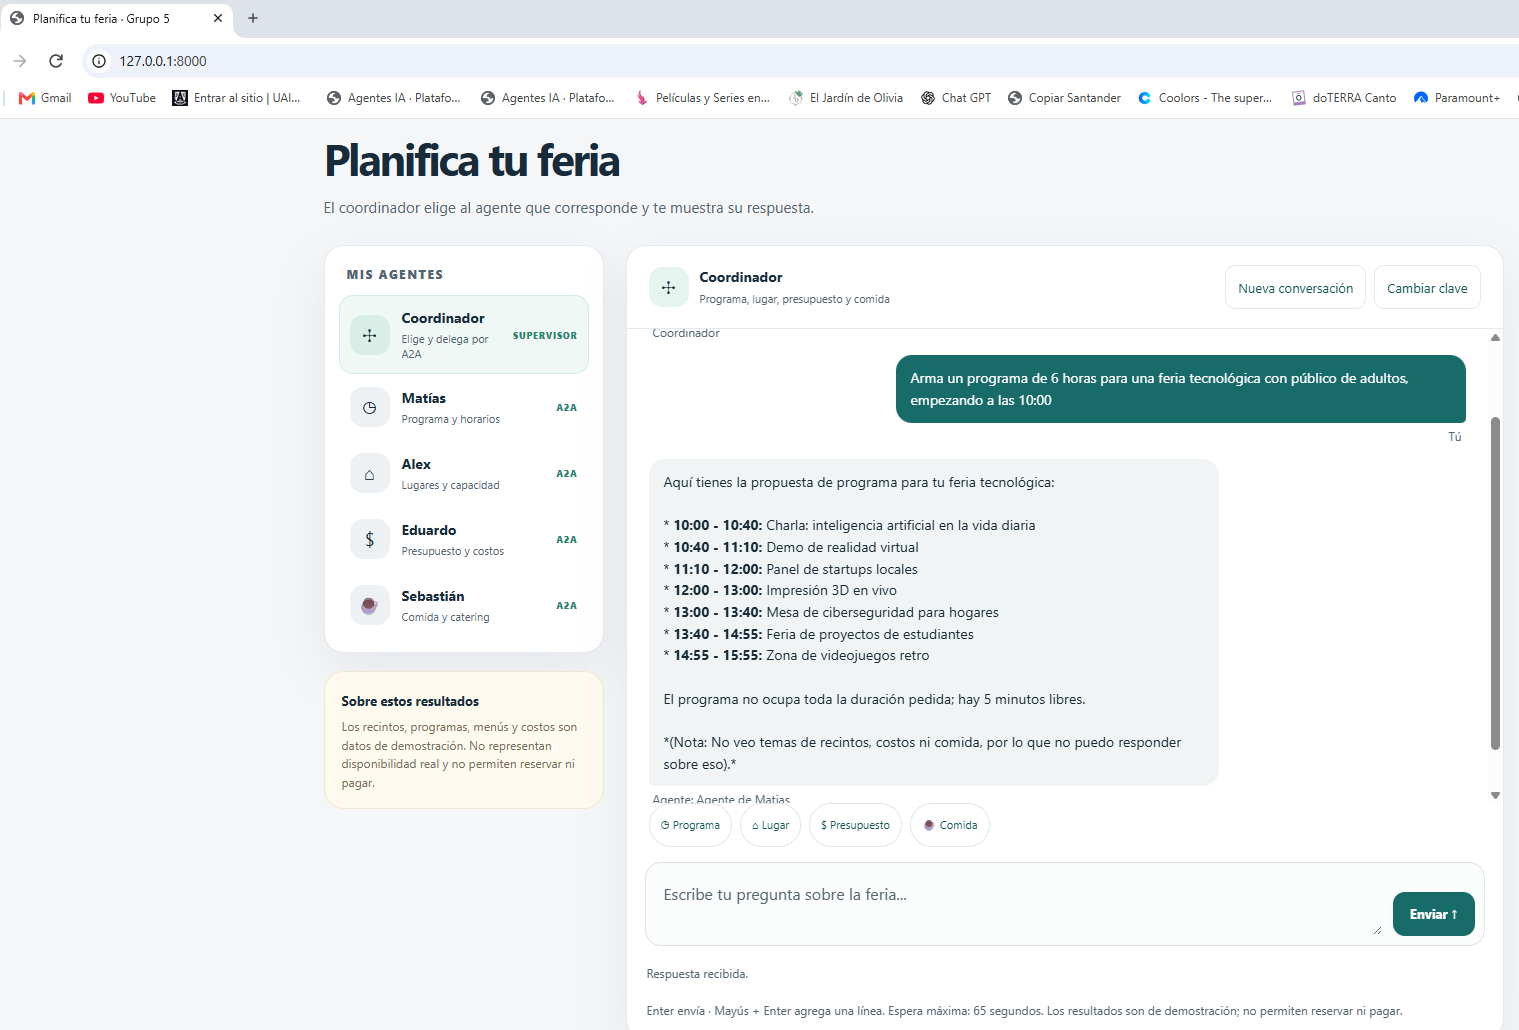
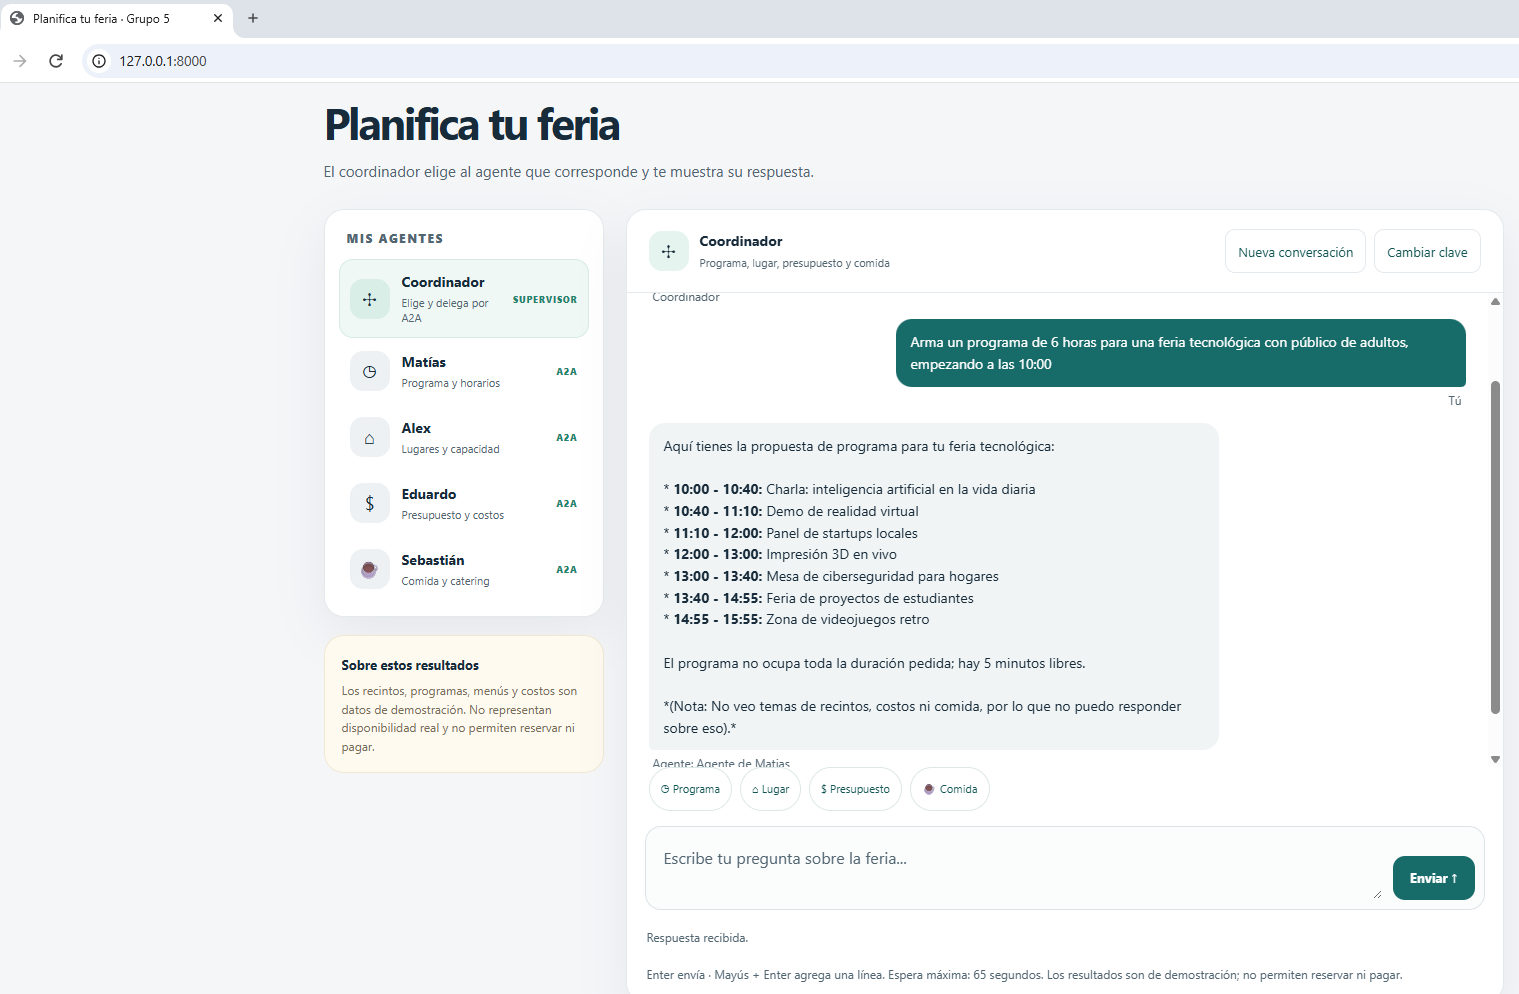
Capturas sin barra de marcadores y pruebas de la herramienta armar_programa

diff --git a/taller-02-c2/proyecto/tests/test_tools_matias.py b/taller-02-c2/proyecto/tests/test_tools_matias.py
@@ -1,0 +1,109 @@
+"""Pruebas de la herramienta armar_programa (no usan el modelo ni la clave)."""
+
+from datetime import datetime
+
+import pytest
+
+from src.agente_matias.tools import _ACTIVIDADES, armar_programa
+
+TIPOS = list(_ACTIVIDADES)
+PUBLICOS = ["familiar", "adulto", "estudiantes"]
+DURACIONES = [30, 60, 90, 180, 360, 480]
+
+
+def _armar(**datos):
+    """Llama a la herramienta como lo hace el modelo."""
+    return armar_programa.invoke(datos)
+
+
+def _minutos(hora):
+    inicio = datetime.strptime(hora, "%H:%M")
+    return inicio.hour * 60 + inicio.minute
+
+
+@pytest.mark.parametrize("duracion", DURACIONES)
+@pytest.mark.parametrize("publico", PUBLICOS)
+@pytest.mark.parametrize("tipo", TIPOS)
+def test_el_programa_nunca_pasa_de_la_duracion_pedida(tipo, publico, duracion):
+    resultado = _armar(tipo_evento=tipo, duracion_minutos=duracion, publico=publico)
+
+    suma = sum(actividad["duracion_minutos"] for actividad in resultado["actividades"])
+    assert suma == resultado["minutos_usados"]
+    assert resultado["minutos_usados"] <= duracion
+    assert resultado["minutos_libres"] == duracion - resultado["minutos_usados"]
+    assert resultado["minutos_libres"] >= 0
+
+
+@pytest.mark.parametrize("tipo", TIPOS)
+def test_las_actividades_son_consecutivas_y_las_horas_cuadran(tipo):
+    resultado = _armar(
+        tipo_evento=tipo, duracion_minutos=360, publico="familiar", hora_inicio="10:00"
+    )
+    actividades = resultado["actividades"]
+
+    assert actividades, "debe haber al menos una actividad para un evento de 6 horas"
+    assert actividades[0]["hora_inicio"] == "10:00"
+    for anterior, siguiente in zip(actividades, actividades[1:]):
+        assert siguiente["hora_inicio"] == anterior["hora_fin"]
+    for orden, actividad in enumerate(actividades, start=1):
+        assert actividad["orden"] == orden
+        duracion = _minutos(actividad["hora_fin"]) - _minutos(actividad["hora_inicio"])
+        assert duracion == actividad["duracion_minutos"]
+    assert _minutos(actividades[-1]["hora_fin"]) == 10 * 60 + resultado["minutos_usados"]
+
+
+def test_solo_incluye_actividades_del_publico_pedido():
+    resultado = _armar(tipo_evento="tecnologico", duracion_minutos=480, publico="adulto")
+    permitidas = {
+        actividad["nombre"]
+        for actividad in _ACTIVIDADES["tecnologico"]
+        if "adulto" in actividad["publico"]
+    }
+    nombres = {actividad["nombre"] for actividad in resultado["actividades"]}
+    assert nombres and nombres <= permitidas
+
+
+def test_un_evento_de_seis_horas_deja_pocos_minutos_libres():
+    """Con el catálogo ampliado, un evento largo no queda con horas vacías."""
+    for tipo in TIPOS:
+        resultado = _armar(tipo_evento=tipo, duracion_minutos=360, publico="familiar")
+        assert resultado["minutos_libres"] < 120, tipo
+
+
+def test_los_alias_de_publico_dan_el_mismo_programa():
+    base = _armar(tipo_evento="infantil", duracion_minutos=180, publico="familiar")
+    for alias in ("niños", "ninos", "infantil", "familia"):
+        assert _armar(tipo_evento="infantil", duracion_minutos=180, publico=alias) == base
+
+
+def test_tipo_con_tilde_y_mayusculas_se_reconoce():
+    resultado = _armar(tipo_evento="  Tecnológico ", duracion_minutos=120, publico="Adulto")
+    assert resultado["actividades"]
+
+
+def test_si_ninguna_actividad_cabe_la_lista_viene_vacia_con_motivo():
+    # El catálogo «infantil» solo tiene actividades para familias: para adultos no hay ninguna.
+    resultado = _armar(tipo_evento="infantil", duracion_minutos=180, publico="adulto")
+    assert resultado["actividades"] == []
+    assert resultado["minutos_usados"] == 0
+    assert resultado["motivo"] == "Ninguna actividad cabe en ese tiempo para ese público."
+
+
+@pytest.mark.parametrize(
+    "datos, fragmento",
+    [
+        ({"tipo_evento": "deportivo", "duracion_minutos": 120, "publico": "adulto"}, "no válido"),
+        ({"tipo_evento": "cultural", "duracion_minutos": 120, "publico": "mascotas"}, "no válido"),
+        ({"tipo_evento": "cultural", "duracion_minutos": 10, "publico": "adulto"}, "duración"),
+        ({"tipo_evento": "cultural", "duracion_minutos": 600, "publico": "adulto"}, "duración"),
+        (
+            {"tipo_evento": "cultural", "duracion_minutos": 120, "publico": "adulto", "hora_inicio": "25:99"},
+            "HH:MM",
+        ),
+    ],
+)
+def test_datos_invalidos_devuelven_lista_vacia_y_motivo(datos, fragmento):
+    resultado = _armar(**datos)
+    assert resultado["actividades"] == []
+    assert resultado["minutos_usados"] == 0
+    assert fragmento in resultado["motivo"]

diff --git a/taller-02-c2/documento-Matias.md b/taller-02-c2/documento-Matias.md
@@ -22,6 +22,7 @@ corrió las pruebas.
 | `proyecto/src/comun/seguridad.py` | Middleware que exige la cabecera `X-API-Key` en toda petición que envía datos (POST, PUT, PATCH, DELETE), la compara con `CLAVE_API` usando `secrets.compare_digest` y responde `401` con `{"detail": "mensaje"}`. Deja públicas la página, las fichas y `/salud`. Si `CLAVE_API` está vacía, avisa al arrancar y responde `503` a toda consulta: la app no queda abierta. |
 | `proyecto/src/comun/errores.py` | Traduce las fallas de Gemini, de la red o de un agente a un mensaje de una línea en español, sin traza ni claves. Oculta cualquier clave que aparezca en un mensaje. Alex agregó después dos frases al reconocimiento de «falta la clave de Gemini» (`api key required`, `provide api_key`); es el único cambio ajeno. |
 | `proyecto/tests/test_seguridad.py` | 52 pruebas de acceso y errores, sin llamar a Gemini. |
+| `proyecto/tests/test_tools_matias.py` | 86 pruebas de la herramienta `armar_programa` de mi agente (a pedido de Alex): el programa nunca pasa de la duración pedida, los minutos libres cuadran, las horas son consecutivas, los alias de público, y los datos inválidos devuelven lista vacía con motivo. |
 | `proyecto/tests/conftest.py` | Define una `CLAVE_API` falsa solo para pytest, para que las pruebas no dependan del `.env` de quien las corre. |
 
 ### Cambios mínimos en archivos de otras personas
@@ -194,7 +195,7 @@ aparte, con otro puerto.
 
 | Entorno y fecha | Solicitud | Resultado esperado | Resultado obtenido | Observaciones |
 | --- | --- | --- | --- | --- |
-| LOCAL · 2026-11-14 | `python -m pytest` desde `taller-02-c2/proyecto` sobre `main` integrado | Todas pasan, sin usar la clave de Gemini | `168 passed` (116 existentes + 52 nuevas; el 2026-11-13 eran 166, antes de integrar los cambios de Alex y Eduardo) | Incluye: sin clave → 401, clave mala → 401, clave correcta con texto vacío → 400, fichas y `/salud` sin clave → 200, la clave no sale hacia otras direcciones, y una falla de Gemini → 502. |
+| LOCAL · 2026-11-15 | `python -m pytest` desde `taller-02-c2/proyecto` sobre `main` integrado más mis cambios | Todas pasan, sin usar la clave de Gemini | `254 passed` (168 que ya pasaban en `main`, de las cuales 52 son mías de seguridad, más 86 nuevas de `test_tools_matias.py`) | Incluye: sin clave → 401, clave mala → 401, clave correcta con texto vacío → 400, fichas y `/salud` sin clave → 200, la clave no sale hacia otras direcciones, y una falla de Gemini → 502. |
 
 ### Prueba 11 · Acceso permitido en Heroku
 
